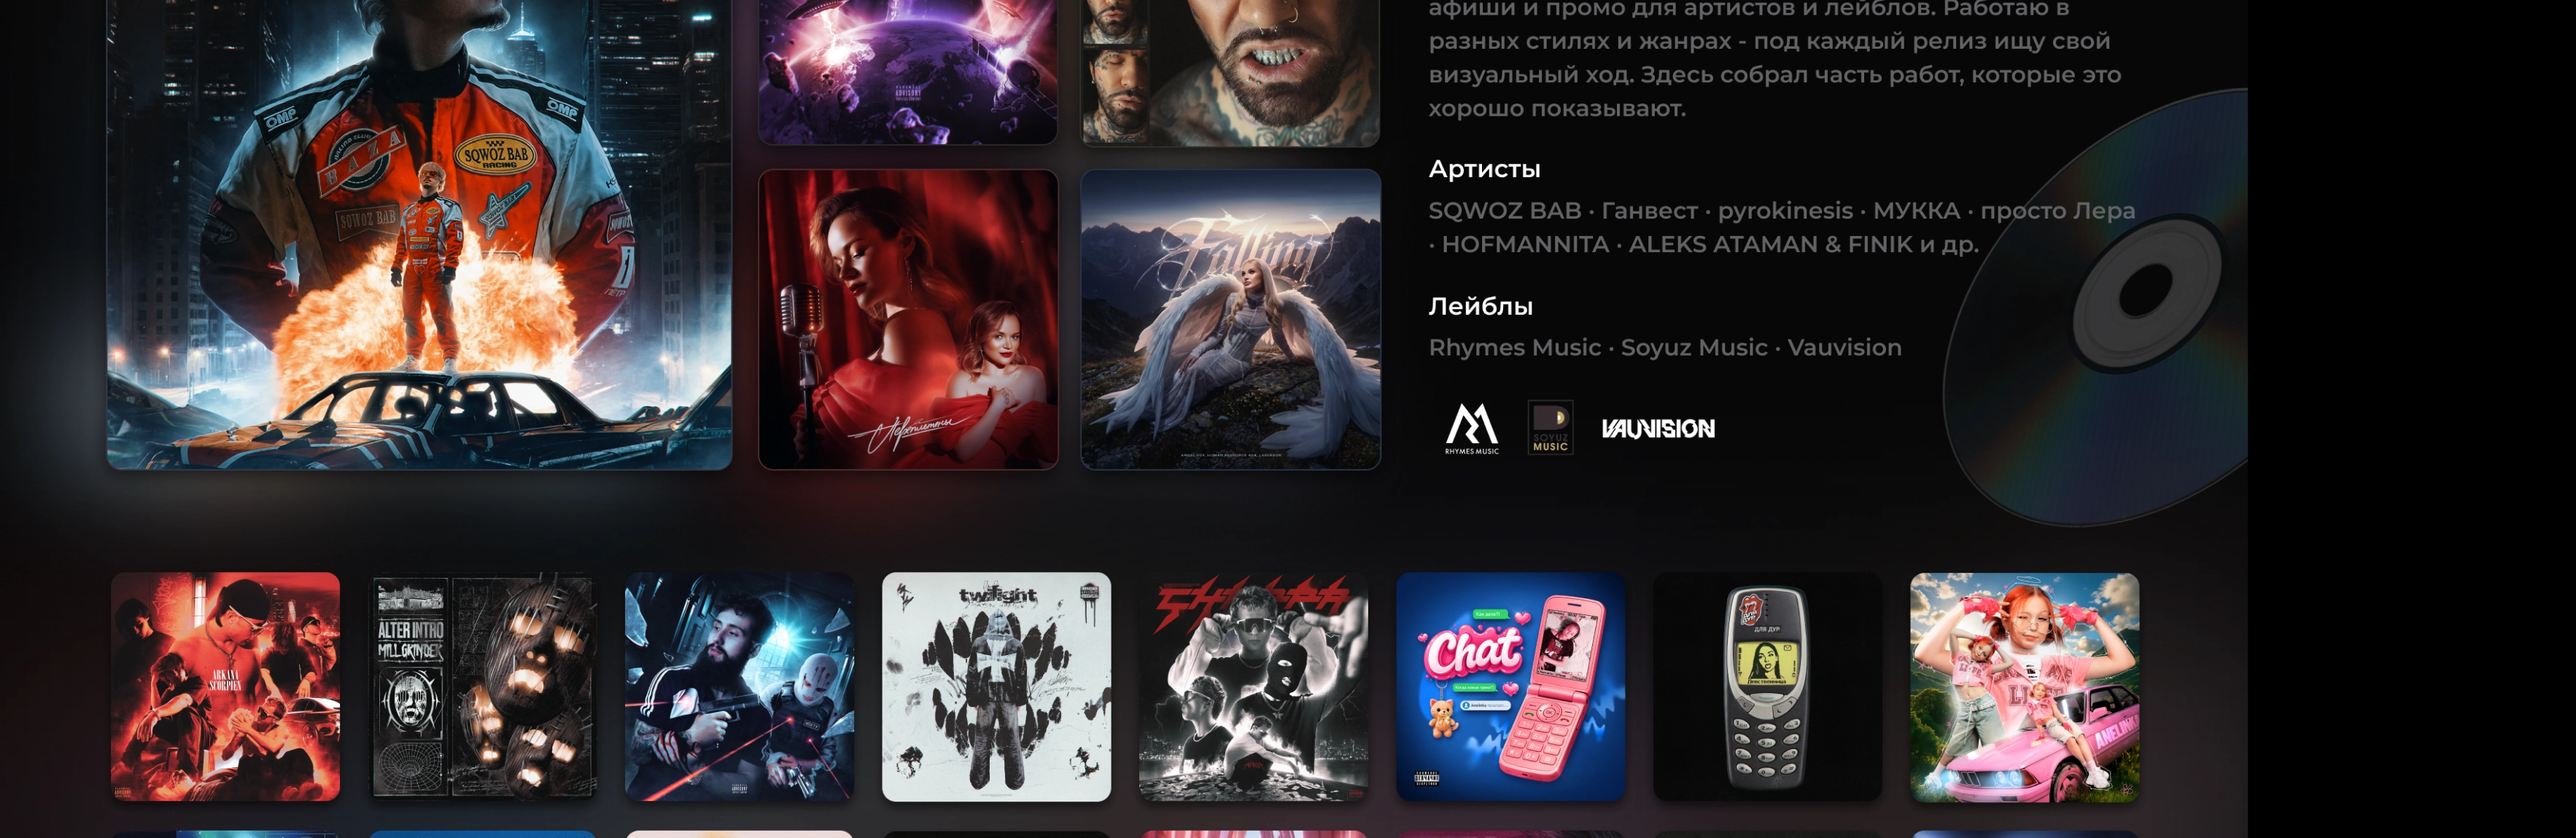
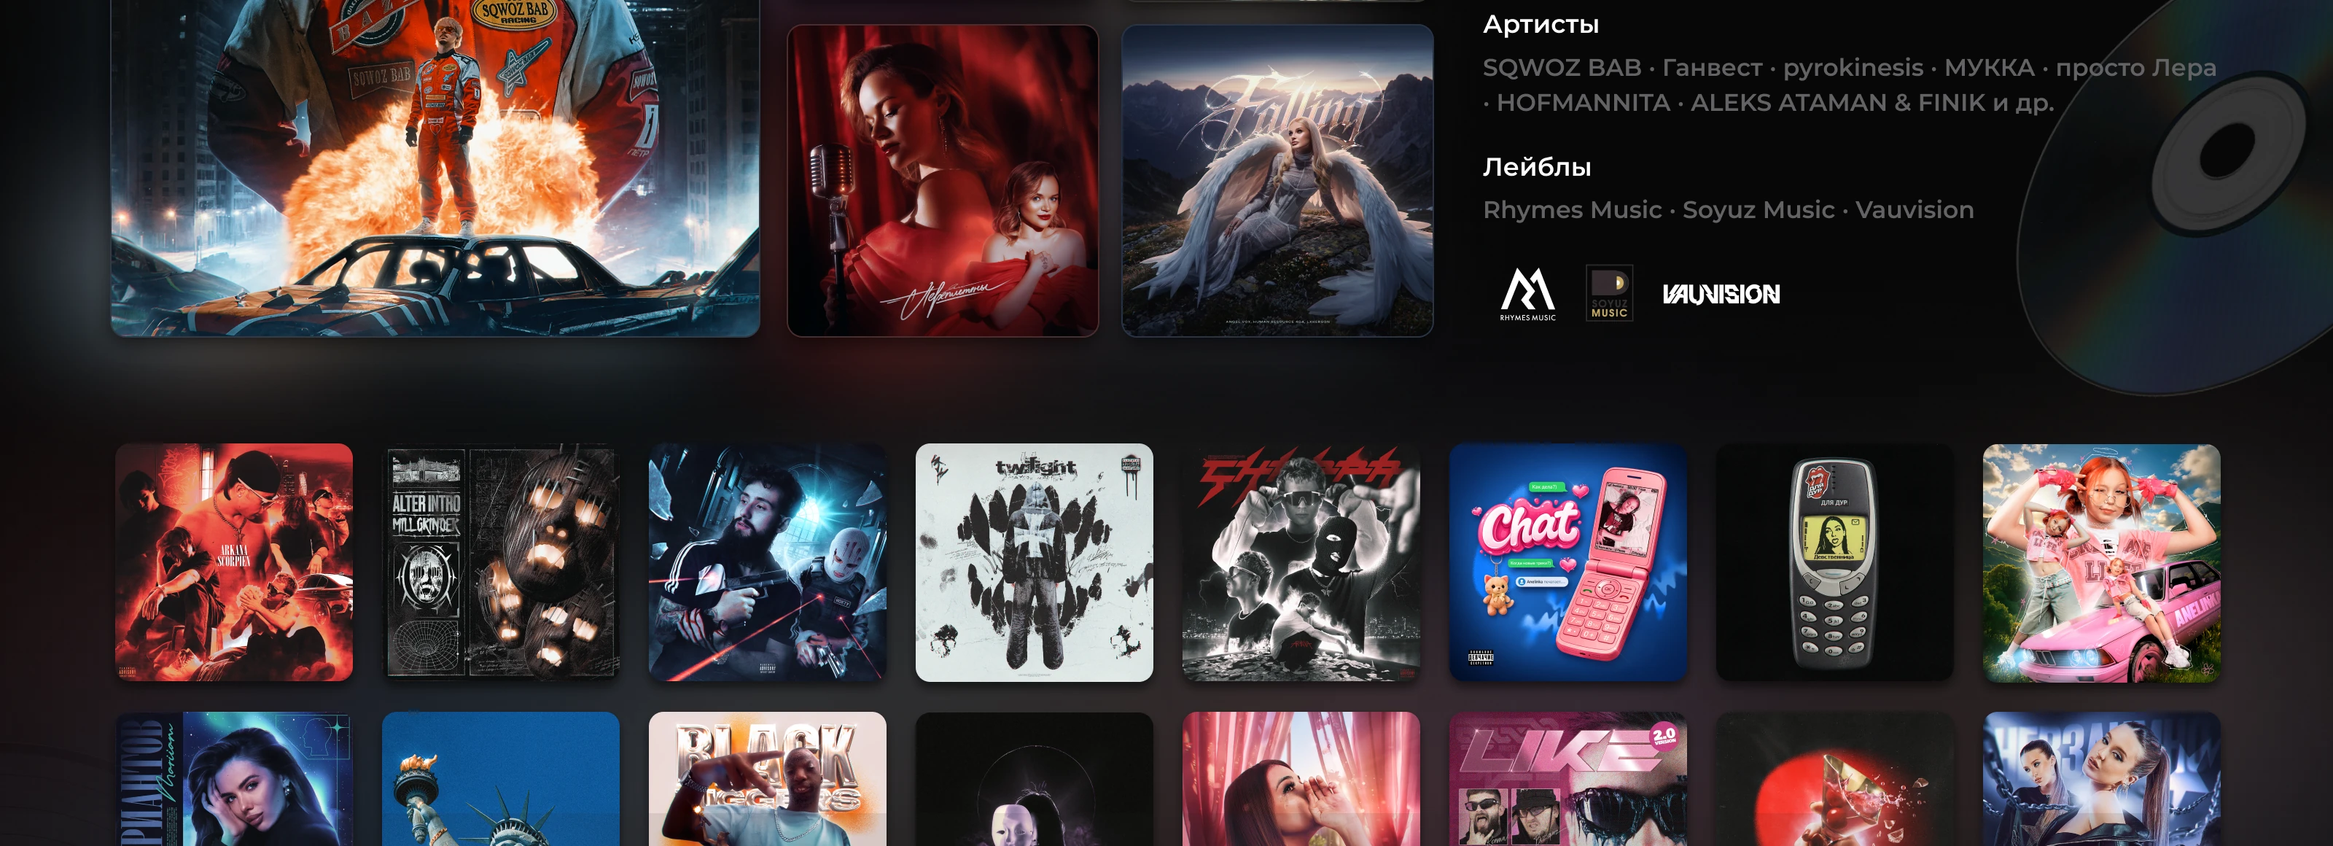
Replace portfolio artwork with aligned Figma export

diff --git a/index.html b/index.html
@@ -3,7 +3,7 @@
 <head>
   <meta charset="utf-8">
   <meta name="viewport" content="width=device-width, initial-scale=1">
-  <meta name="theme-color" content="#141414">
+  <meta name="theme-color" content="#080808">
   <meta name="description" content="Максим Колтунов — графический дизайнер и AI-дизайнер. Избранные работы: постеры, обложки, key visual и айдентика.">
   <meta property="og:type" content="website">
   <meta property="og:title" content="Максим Колтунов — портфолио">
@@ -17,21 +17,23 @@
   <main>
     <h1 class="visually-hidden">Портфолио Максима Колтунова</h1>
     <div class="portfolio" aria-label="Избранные работы Максима Колтунова">
-      <picture><source media="(max-width: 700px)" srcset="images/mobile/00.webp"><img src="images/desktop/00.webp" width="3532" height="1150" alt="Максим Колтунов — графический дизайнер и AI-дизайнер" fetchpriority="high"></picture>
-      <picture><source media="(max-width: 700px)" srcset="images/mobile/01.webp"><img src="images/desktop/01.webp" width="3532" height="1150" alt="" loading="lazy" decoding="async"></picture>
-      <picture><source media="(max-width: 700px)" srcset="images/mobile/02.webp"><img src="images/desktop/02.webp" width="3532" height="1150" alt="" loading="lazy" decoding="async"></picture>
-      <picture><source media="(max-width: 700px)" srcset="images/mobile/03.webp"><img src="images/desktop/03.webp" width="3532" height="1150" alt="" loading="lazy" decoding="async"></picture>
-      <picture><source media="(max-width: 700px)" srcset="images/mobile/04.webp"><img src="images/desktop/04.webp" width="3532" height="1150" alt="" loading="lazy" decoding="async"></picture>
-      <picture><source media="(max-width: 700px)" srcset="images/mobile/05.webp"><img src="images/desktop/05.webp" width="3532" height="1150" alt="" loading="lazy" decoding="async"></picture>
-      <picture><source media="(max-width: 700px)" srcset="images/mobile/06.webp"><img src="images/desktop/06.webp" width="3532" height="1150" alt="" loading="lazy" decoding="async"></picture>
-      <picture><source media="(max-width: 700px)" srcset="images/mobile/07.webp"><img src="images/desktop/07.webp" width="3532" height="1150" alt="" loading="lazy" decoding="async"></picture>
-      <picture><source media="(max-width: 700px)" srcset="images/mobile/08.webp"><img src="images/desktop/08.webp" width="3532" height="1150" alt="" loading="lazy" decoding="async"></picture>
-      <picture><source media="(max-width: 700px)" srcset="images/mobile/09.webp"><img src="images/desktop/09.webp" width="3532" height="1150" alt="" loading="lazy" decoding="async"></picture>
-      <picture><source media="(max-width: 700px)" srcset="images/mobile/10.webp"><img src="images/desktop/10.webp" width="3532" height="1145" alt="Контакты: Telegram @kmestumax и maxkmestu@gmail.com" loading="lazy" decoding="async"></picture>
+      <picture><source media="(max-width: 700px)" srcset="images/mobile/00.webp"><img src="images/desktop/00.webp" width="3200" height="1160" alt="Максим Колтунов — графический дизайнер и AI-дизайнер. Более восьми лет в дизайне." fetchpriority="high"></picture>
+      <picture><source media="(max-width: 700px)" srcset="images/mobile/01.webp"><img src="images/desktop/01.webp" width="3200" height="1160" alt="Инструменты, нейросети и направления работы" decoding="async"></picture>
+      <picture><source media="(max-width: 700px)" srcset="images/mobile/02.webp"><img src="images/desktop/02.webp" width="3200" height="1160" alt="Кейс: постер и композиция для Очень странных дел" loading="lazy" decoding="async"></picture>
+      <picture><source media="(max-width: 700px)" srcset="images/mobile/03.webp"><img src="images/desktop/03.webp" width="3200" height="1160" alt="Постер и этапы работы над композицией" loading="lazy" decoding="async"></picture>
+      <picture><source media="(max-width: 700px)" srcset="images/mobile/04.webp"><img src="images/desktop/04.webp" width="3200" height="1160" alt="Создание персонажей и сборка визуала" loading="lazy" decoding="async"></picture>
+      <picture><source media="(max-width: 700px)" srcset="images/mobile/05.webp"><img src="images/desktop/05.webp" width="3200" height="1160" alt="Музыкальные обложки и артисты" loading="lazy" decoding="async"></picture>
+      <picture><source media="(max-width: 700px)" srcset="images/mobile/06.webp"><img src="images/desktop/06.webp" width="3200" height="1160" alt="Подборка музыкальных обложек" loading="lazy" decoding="async"></picture>
+      <picture><source media="(max-width: 700px)" srcset="images/mobile/07.webp"><img src="images/desktop/07.webp" width="3200" height="1160" alt="Афиши концертов" loading="lazy" decoding="async"></picture>
+      <picture><source media="(max-width: 700px)" srcset="images/mobile/08.webp"><img src="images/desktop/08.webp" width="3200" height="1160" alt="Логотипы и титры" loading="lazy" decoding="async"></picture>
+      <picture><source media="(max-width: 700px)" srcset="images/mobile/09.webp"><img src="images/desktop/09.webp" width="3200" height="1160" alt="Постеры и рекламные креативы" loading="lazy" decoding="async"></picture>
+      <picture><source media="(max-width: 700px)" srcset="images/mobile/10.webp"><img src="images/desktop/10.webp" width="3200" height="1152" alt="Давайте работать вместе. Контакты: Telegram @kmestumax и maxkmestu@gmail.com" loading="lazy" decoding="async"></picture>
       <a class="hotspot hotspot--qr" href="https://t.me/kmestumax" target="_blank" rel="noopener noreferrer" aria-label="Открыть Telegram @kmestumax по QR-коду"></a>
-      <a class="hotspot hotspot--telegram" href="https://t.me/kmestumax" target="_blank" rel="noopener noreferrer" aria-label="Написать Максиму в Telegram: @kmestumax"></a>
-      <a class="hotspot hotspot--email" href="mailto:maxkmestu@gmail.com" aria-label="Написать Максиму на почту: maxkmestu@gmail.com"></a>
+      <a class="hotspot hotspot--telegram-top" href="https://t.me/kmestumax" target="_blank" rel="noopener noreferrer" aria-label="Написать в Telegram: @kmestumax"></a>
+      <a class="hotspot hotspot--telegram" href="https://t.me/kmestumax" target="_blank" rel="noopener noreferrer" aria-label="Написать в Telegram: @kmestumax"></a>
+      <a class="hotspot hotspot--email" href="mailto:maxkmestu@gmail.com" aria-label="Написать на почту: maxkmestu@gmail.com"></a>
     </div>
+    <a class="mobile-contact" href="https://t.me/kmestumax" target="_blank" rel="noopener noreferrer">Написать в Telegram</a>
   </main>
 </body>
 </html>

diff --git a/styles.css b/styles.css
@@ -1,14 +1,19 @@
-:root { color-scheme: dark; background: #141414; }
+:root { color-scheme: dark; background: #080808; }
 * { box-sizing: border-box; }
 html { scroll-behavior: smooth; }
-body { margin: 0; background: #141414; color: #fff; font-family: Arial, sans-serif; }
-.portfolio { position: relative; width: 100%; max-width: 1766px; margin: auto; }
+body { margin: 0; min-width: 320px; background: #080808; color: #fff; font-family: Arial, sans-serif; }
+.portfolio { position: relative; width: 100%; max-width: 1766px; margin-inline: auto; }
 .portfolio picture, .portfolio img { display: block; width: 100%; height: auto; }
-.portfolio img { background: #141414; }
-.hotspot { position: absolute; z-index: 1; }
-.hotspot--qr { left: 68.6%; top: 13.3%; width: 12.9%; height: 1.9%; }
-.hotspot--telegram, .hotspot--email { top: 96.98%; height: 1.05%; }
-.hotspot--telegram { left: 5.7%; width: 14.6%; }
-.hotspot--email { left: 20.8%; width: 21.7%; }
-.hotspot:focus-visible { outline: 3px solid #fff; border-radius: 6px; }
+.portfolio img { background: #080808; }
+.hotspot { position: absolute; z-index: 1; display: block; cursor: pointer; }
+.hotspot--qr { left: 79.15%; top: 11.04%; width: 5.75%; height: 1.48%; }
+.hotspot--telegram-top { left: 85.7%; top: 11.19%; width: 6.5%; height: 0.63%; }
+.hotspot--telegram, .hotspot--email { top: 96.91%; height: 1.07%; }
+.hotspot--telegram { left: 7.2%; width: 16.7%; }
+.hotspot--email { left: 24.2%; width: 25.1%; }
+.hotspot:focus-visible, .mobile-contact:focus-visible { outline: 3px solid #fff; outline-offset: 2px; border-radius: 6px; }
+.mobile-contact { display: none; }
 .visually-hidden { position: absolute; width: 1px; height: 1px; padding: 0; margin: -1px; overflow: hidden; clip: rect(0,0,0,0); white-space: nowrap; border: 0; }
+@media (max-width: 700px) {
+  .mobile-contact { display: block; position: fixed; z-index: 2; right: 14px; bottom: max(14px, env(safe-area-inset-bottom)); padding: 13px 17px; border: 1px solid #454545; border-radius: 999px; background: #171717ed; color: #fff; font-size: 13px; font-weight: 700; line-height: 1; text-decoration: none; box-shadow: 0 4px 20px #0009; }
+}
